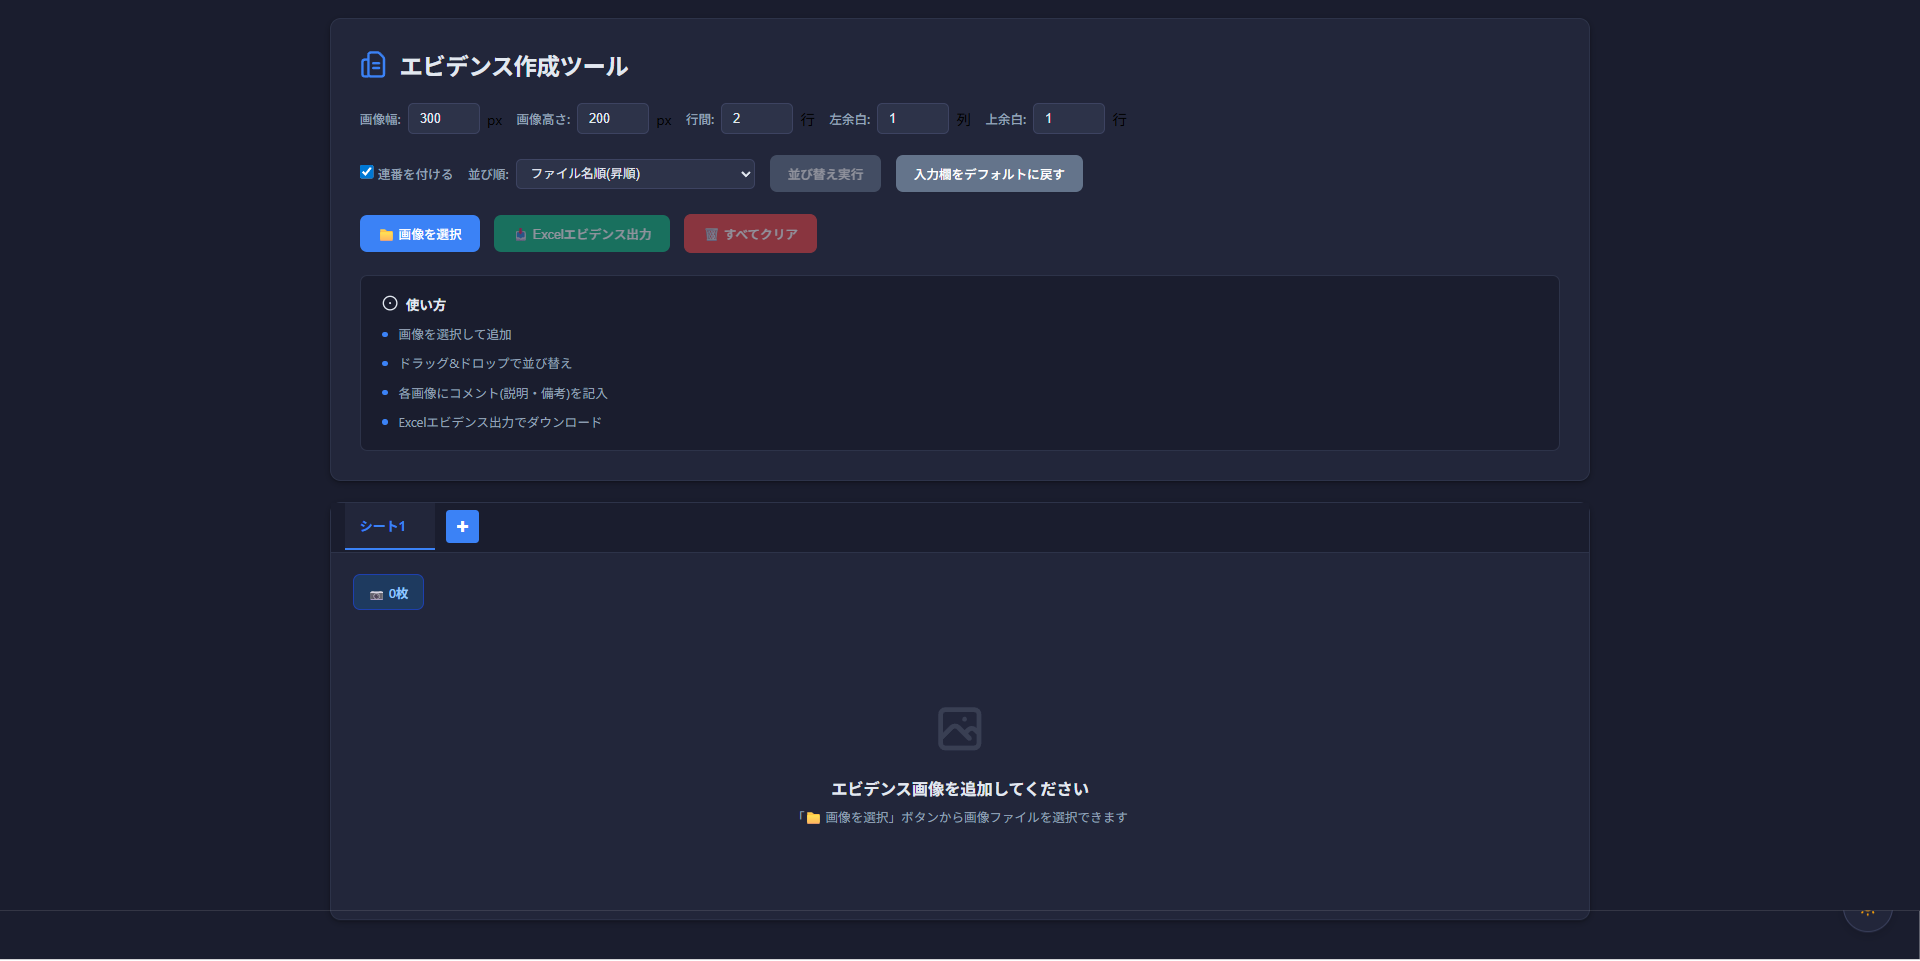
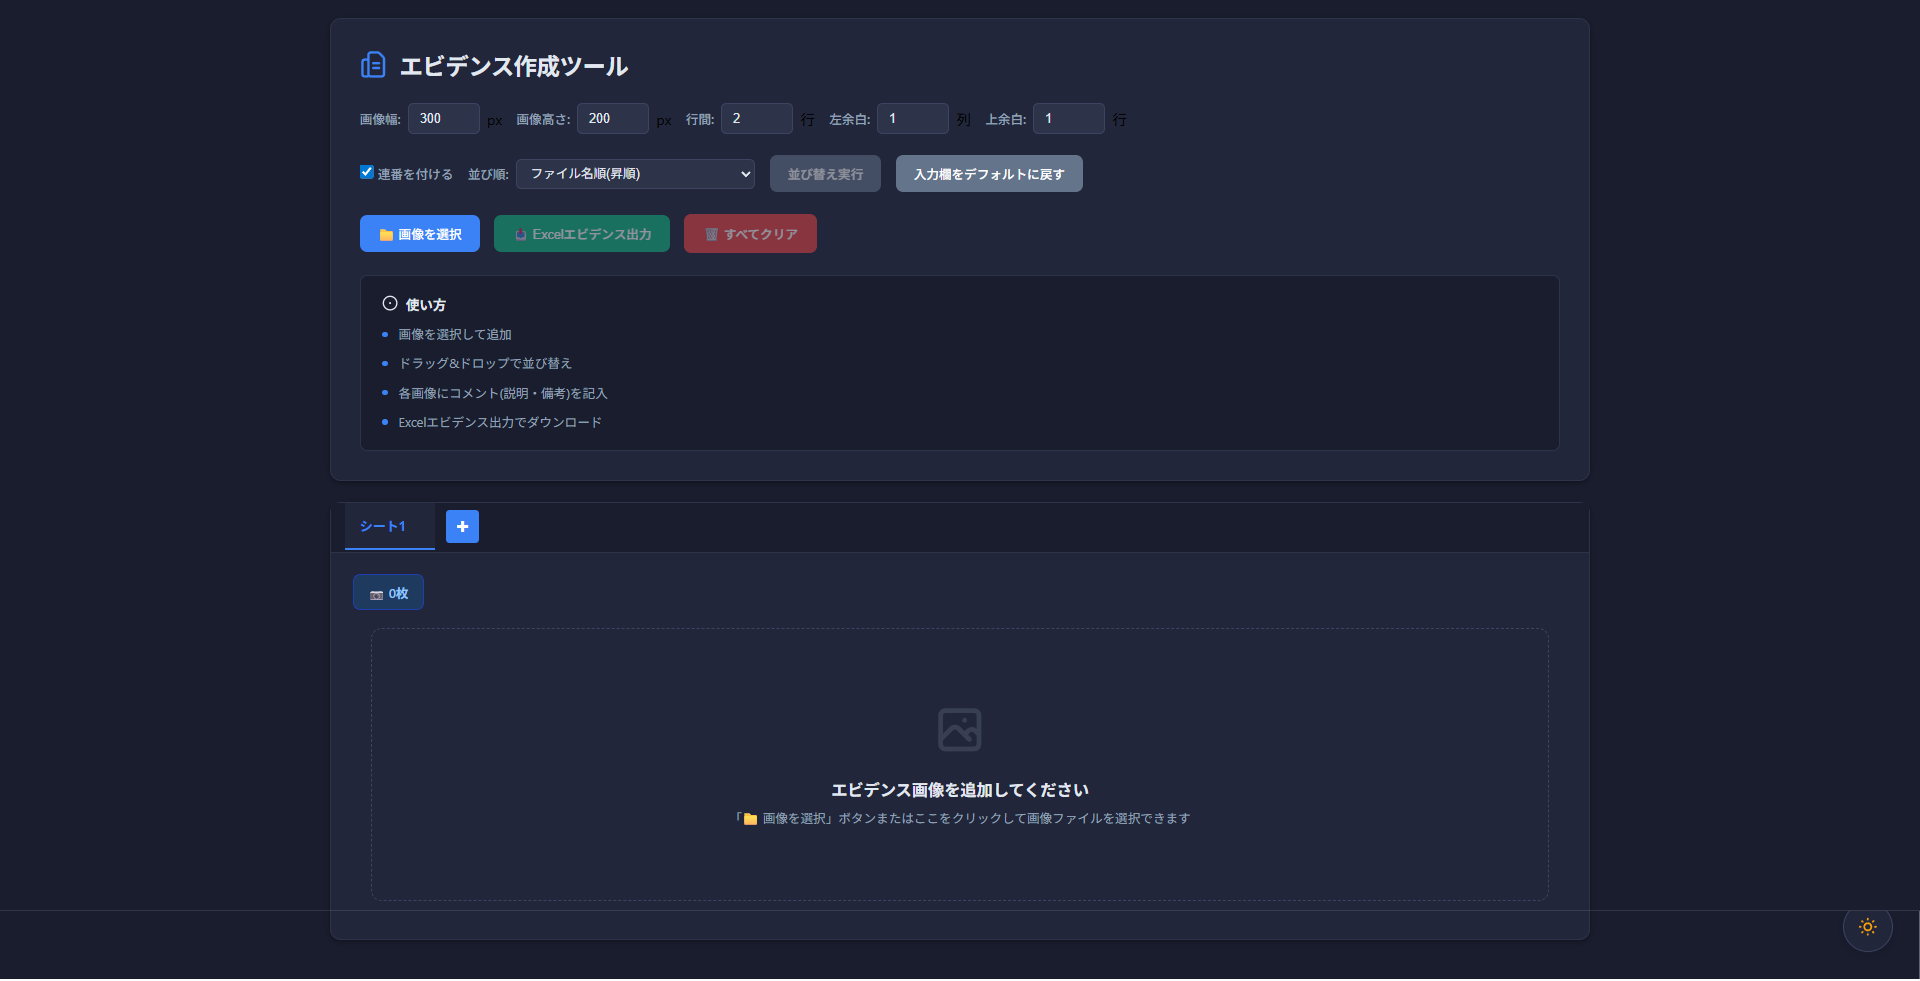
空の状態エリアをクリックして画像アップロード機能を追加

diff --git a/src/App.vue b/src/App.vue
@@ -4,6 +4,7 @@
     <ThemeToggle @toggle="toggleTheme" :dark-mode="darkMode" />
 
     <TheHeader
+      ref="headerRef"
       v-model:image-width="imageWidth"
       v-model:image-height="imageHeight"
       v-model:row-spacing="rowSpacing"
@@ -29,12 +30,12 @@
             <span class="image-count-badge">📷 {{ currentTabImages.length }}枚</span>
           </div>
 
-          <div v-if="currentTabImages.length === 0" class="empty-state">
+          <div v-if="currentTabImages.length === 0" class="empty-state" @click="triggerFileInput">
             <svg xmlns="http://www.w3.org/2000/svg" fill="none" viewBox="0 0 24 24" stroke="currentColor">
               <path stroke-linecap="round" stroke-linejoin="round" stroke-width="2" d="M4 16l4.586-4.586a2 2 0 012.828 0L16 16m-2-2l1.586-1.586a2 2 0 012.828 0L20 14m-6-6h.01M6 20h12a2 2 0 002-2V6a2 2 0 00-2-2H6a2 2 0 00-2 2v12a2 2 0 002 2z" />
             </svg>
             <h3>エビデンス画像を追加してください</h3>
-            <p>「📁 画像を選択」ボタンから画像ファイルを選択できます</p>
+            <p>「📁 画像を選択」ボタンまたはここをクリックして画像ファイルを選択できます</p>
           </div>
 
           <ImageGrid
@@ -74,6 +75,9 @@ import PhotoSwipe from 'photoswipe'
 const { showToast } = useToast()
 const { darkMode, toggleTheme } = useTheme()
 const { exportToExcel: exportExcel } = useExcelExport()
+
+// ヘッダーコンポーネントへの参照
+const headerRef = ref(null)
 
 // タブデータ
 const tabs = ref([
@@ -306,6 +310,13 @@ const exportToExcel = async () => {
   } catch (error) {
     console.error('Excel出力エラー:', error)
     showToast('Excelファイルの作成に失敗しました。エラー: ' + error.message, 'error')
+  }
+}
+
+// ファイル入力をトリガー
+const triggerFileInput = () => {
+  if (headerRef.value?.fileInputRef) {
+    headerRef.value.fileInputRef.click()
   }
 }
 </script>

diff --git a/src/assets/styles/main.scss b/src/assets/styles/main.scss
@@ -339,7 +339,48 @@ body {
   text-align: center;
   padding: 80px 20px;
   color: #94a3b8;
-  transition: all 0.3s;
+  transition: all 0.3s ease;
+  cursor: pointer;
+  border-radius: 12px;
+  border: 2px dashed #d1d5db;
+  margin: 20px;
+
+  .dark-mode & {
+    border-color: #3d4361;
+  }
+
+  &:hover {
+    background: rgba(59, 130, 246, 0.08);
+    border-color: #3b82f6;
+    transform: translateY(-2px);
+    box-shadow: 0 4px 12px rgba(59, 130, 246, 0.15);
+
+    .dark-mode & {
+      background: rgba(59, 130, 246, 0.15);
+      box-shadow: 0 4px 12px rgba(59, 130, 246, 0.25);
+    }
+
+    h3 {
+      color: #3b82f6;
+
+      .dark-mode & {
+        color: #60a5fa;
+      }
+    }
+
+    p {
+      color: #3b82f6;
+
+      .dark-mode & {
+        color: #93c5fd;
+      }
+    }
+
+    svg {
+      opacity: 0.4;
+      transform: scale(1.05);
+    }
+  }
 
   h3 {
     color: #1e293b;
@@ -369,6 +410,7 @@ body {
     height: 64px;
     margin-bottom: 16px;
     opacity: 0.2;
+    transition: all 0.3s ease;
   }
 }
 

diff --git a/src/components/TheHeader.vue b/src/components/TheHeader.vue
@@ -190,6 +190,11 @@ const handleFileInput = (event) => {
   // リセット
   event.target.value = ''
 }
+
+// 親コンポーネントから参照できるようにfileInputRefを公開
+defineExpose({
+  fileInputRef
+})
 </script>
 
 <style scoped lang="scss">

diff --git a/README.md b/README.md
@@ -13,6 +13,7 @@
 
 - 📑 タブによる複数シート管理
 - 📁 複数画像の一括アップロード
+- 🖱 クリックで画像を追加（空の状態エリアをクリック）
 - 🎨 ダークモード対応
 - 🔄 ドラッグ&ドロップで画像を並び替え
 - 💬 各画像にコメント追加
@@ -75,6 +76,7 @@ src/
 
 2. **画像管理**
    - 「📁 画像を選択」ボタンから画像ファイルを選択
+   - 空の状態エリアをクリックして画像を追加
    - ドラッグ&ドロップで画像を並び替え
    - 各画像にコメント(説明・備考)を記入
    - 画像クリックでライトボックス表示
